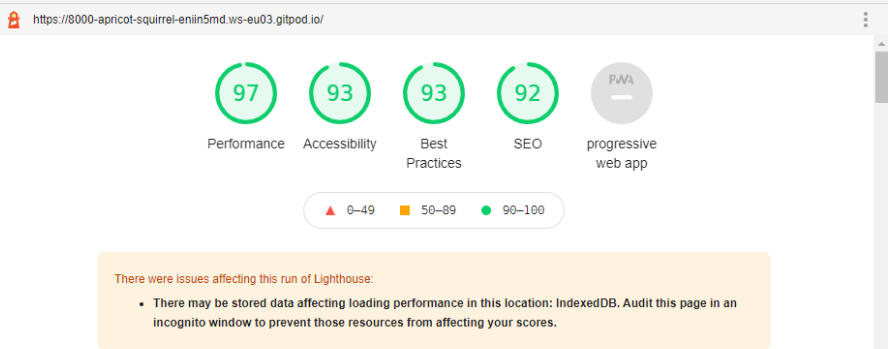
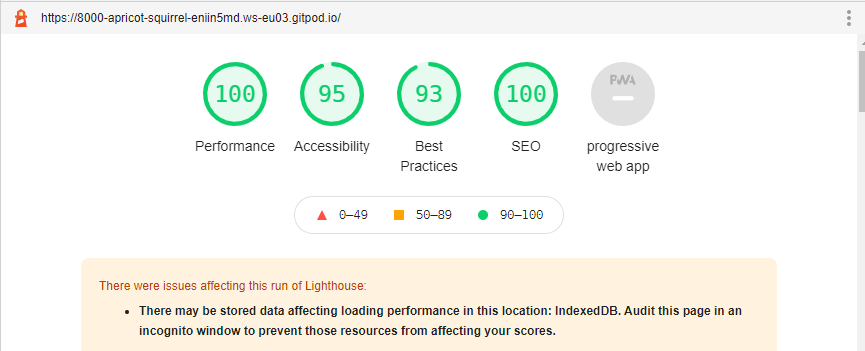
Update Lighthouse test result image.

diff --git a/index.html b/index.html
@@ -72,7 +72,7 @@
 
     <main id="callout">
         <div class="container-fluid callout-container">
-            <div class="opaque-overlay">&nbsp;</div>
+            <!-- <div class="opaque-overlay">&nbsp;</div> -->
             <div class="row">
                 <div class="col-12">
                     <section class="callout jumbotron text-center">
